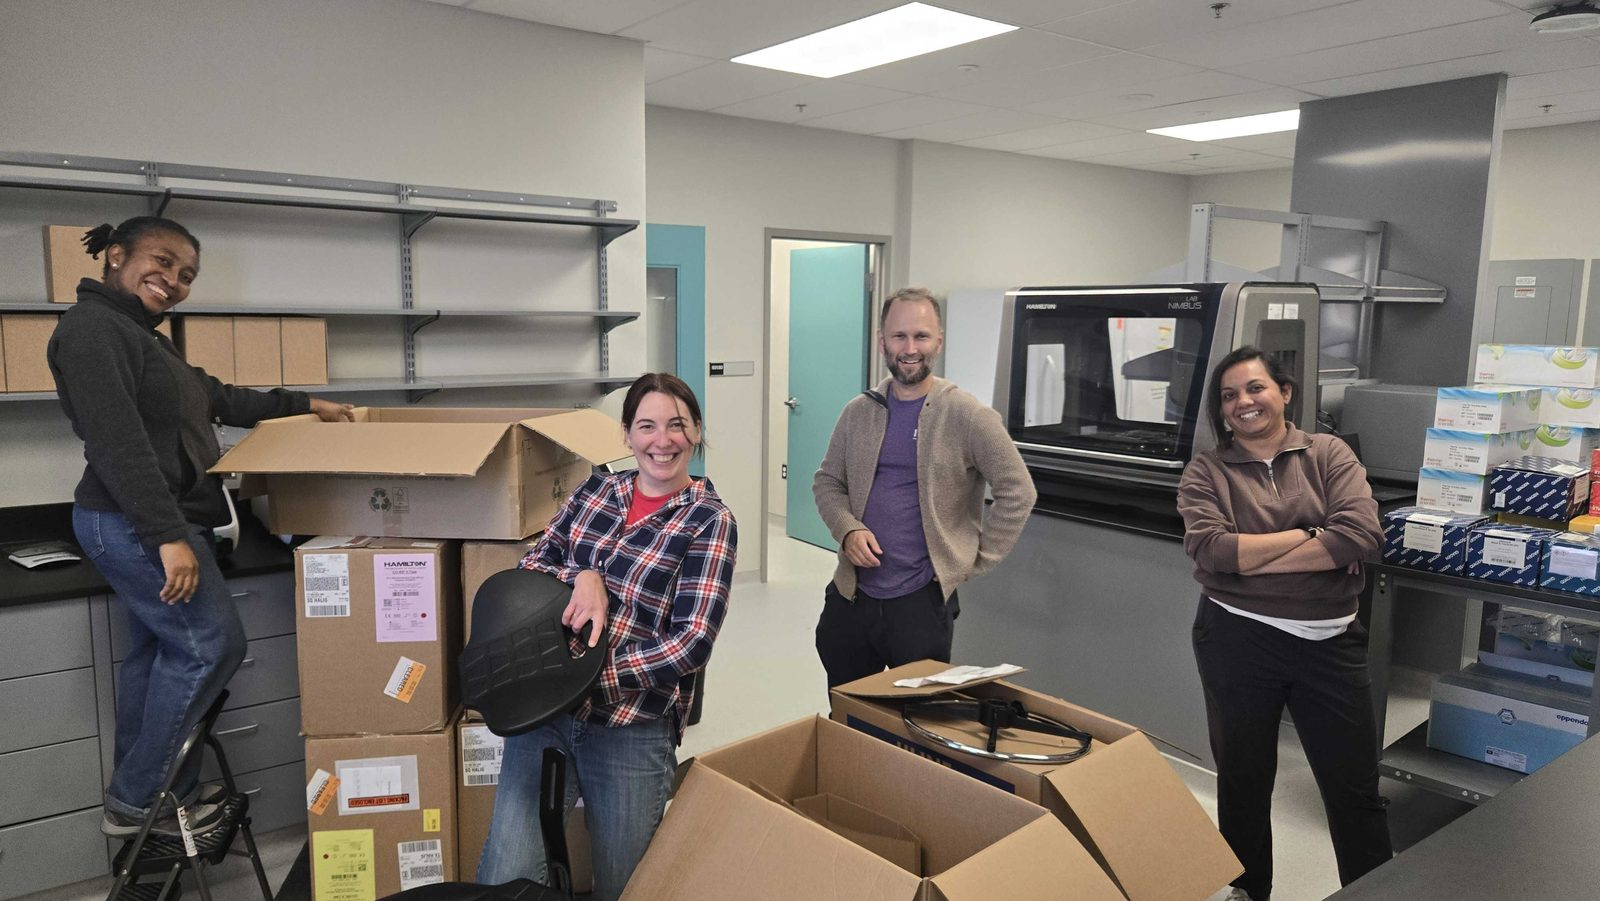
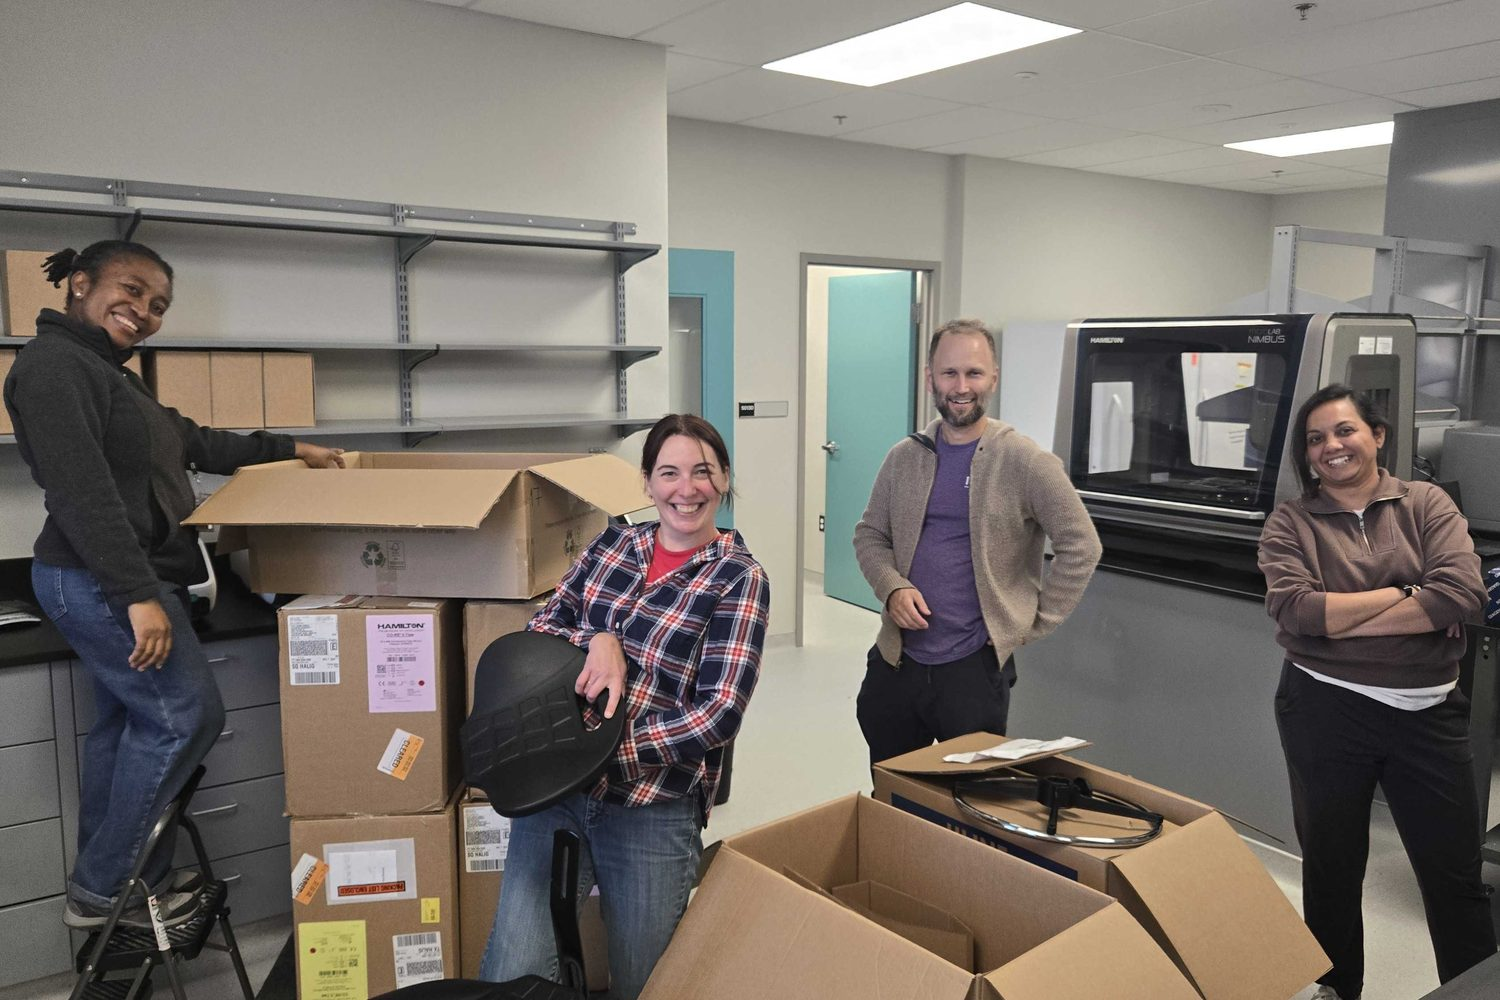
Keep three equal photos; recrop new lab photo to include everyone
Claude-Session: https://claude.ai/code/session_0184tZHL9zBPBmqcszxgK2L6

diff --git a/assets/css/site.css b/assets/css/site.css
@@ -193,7 +193,7 @@ a.pub-title:hover { color: var(--accent); }
 .train-grid { display: grid; gap: 24px; grid-template-columns: repeat(auto-fit, minmax(320px, 1fr)); }
 .train-card h2 { font-size: 28px; }
 .photo-slot { aspect-ratio: 3 / 2; max-width: 100%; border: 2px dashed var(--line); border-radius: 10px; background: var(--surface); display: flex; align-items: center; justify-content: center; text-align: center; padding: 16px; font-family: var(--mono); font-size: 13px; color: var(--muted); }
-.photo-row { display: grid; gap: 24px; grid-template-columns: repeat(auto-fit, minmax(300px, 1fr)); }
+.photo-row { display: grid; gap: 24px; grid-template-columns: repeat(auto-fit, minmax(260px, 1fr)); }
 .checks { margin: 0; padding: 0; list-style: none; display: flex; flex-direction: column; gap: 8px; }
 .checks li { padding-left: 26px; position: relative; color: var(--ink-2); }
 .checks li::before { content: ""; position: absolute; left: 4px; top: 9px; width: 10px; height: 10px; border-radius: 50%; background: var(--accent); }
@@ -211,9 +211,7 @@ a.pub-title:hover { color: var(--accent); }
 .workshops .when { white-space: nowrap; color: var(--muted); }
 .card-photo { display: block; width: 100%; max-width: 100%; height: auto; aspect-ratio: 3 / 2; object-fit: cover; border-radius: 10px; }
 .photo-row figure { margin: 0; display: flex; flex-direction: column; gap: 8px; }
-.photo-row img { display: block; width: 100%; max-width: 100%; height: auto; aspect-ratio: 4 / 3; object-fit: cover; border-radius: 10px; }
-.photo-row .wide { grid-column: 1 / -1; }
-.photo-row .wide img { aspect-ratio: 16 / 9; }
+.photo-row img { display: block; width: 100%; max-width: 100%; height: auto; aspect-ratio: 3 / 2; object-fit: cover; border-radius: 10px; }
 .ws-name { font-weight: 500; }
 .ws-links { display: flex; flex-wrap: wrap; gap: 4px 16px; font-size: 14px; font-weight: 600; margin-top: 4px; }
 .ws-links a { text-decoration: none; }

diff --git a/training.html b/training.html
@@ -44,7 +44,7 @@ description: Training in the Langille Lab, from bioinformatics and the wet lab t
 <h2>Life in the lab</h2>
 </div>
 <div class="photo-row">
-<figure class="wide"><img src="{{ '/images/training/new_lab_unpacking.jpg' | relative_url }}" alt="Four lab members smiling while unpacking boxes in the new lab" loading="lazy"><figcaption class="caption">Moving into the new lab</figcaption></figure>
+<figure><img src="{{ '/images/training/new_lab_unpacking.jpg' | relative_url }}" alt="Four lab members smiling while unpacking boxes in the new lab" loading="lazy"><figcaption class="caption">Moving into the new lab</figcaption></figure>
 <figure><img src="{{ '/images/training/anchor_conference.jpg' | relative_url }}" alt="Two lab members at the Microbiome Anchor Conference" style="object-position: 50% 22%" loading="lazy"><figcaption class="caption">Microbiome Anchor Conference, June 2026</figcaption></figure>
 <figure><img src="{{ '/images/training/curling.jpg' | relative_url }}" alt="Five lab members sweeping a curling stone on the ice" loading="lazy"><figcaption class="caption">Lab curling outing</figcaption></figure>
 </div>
